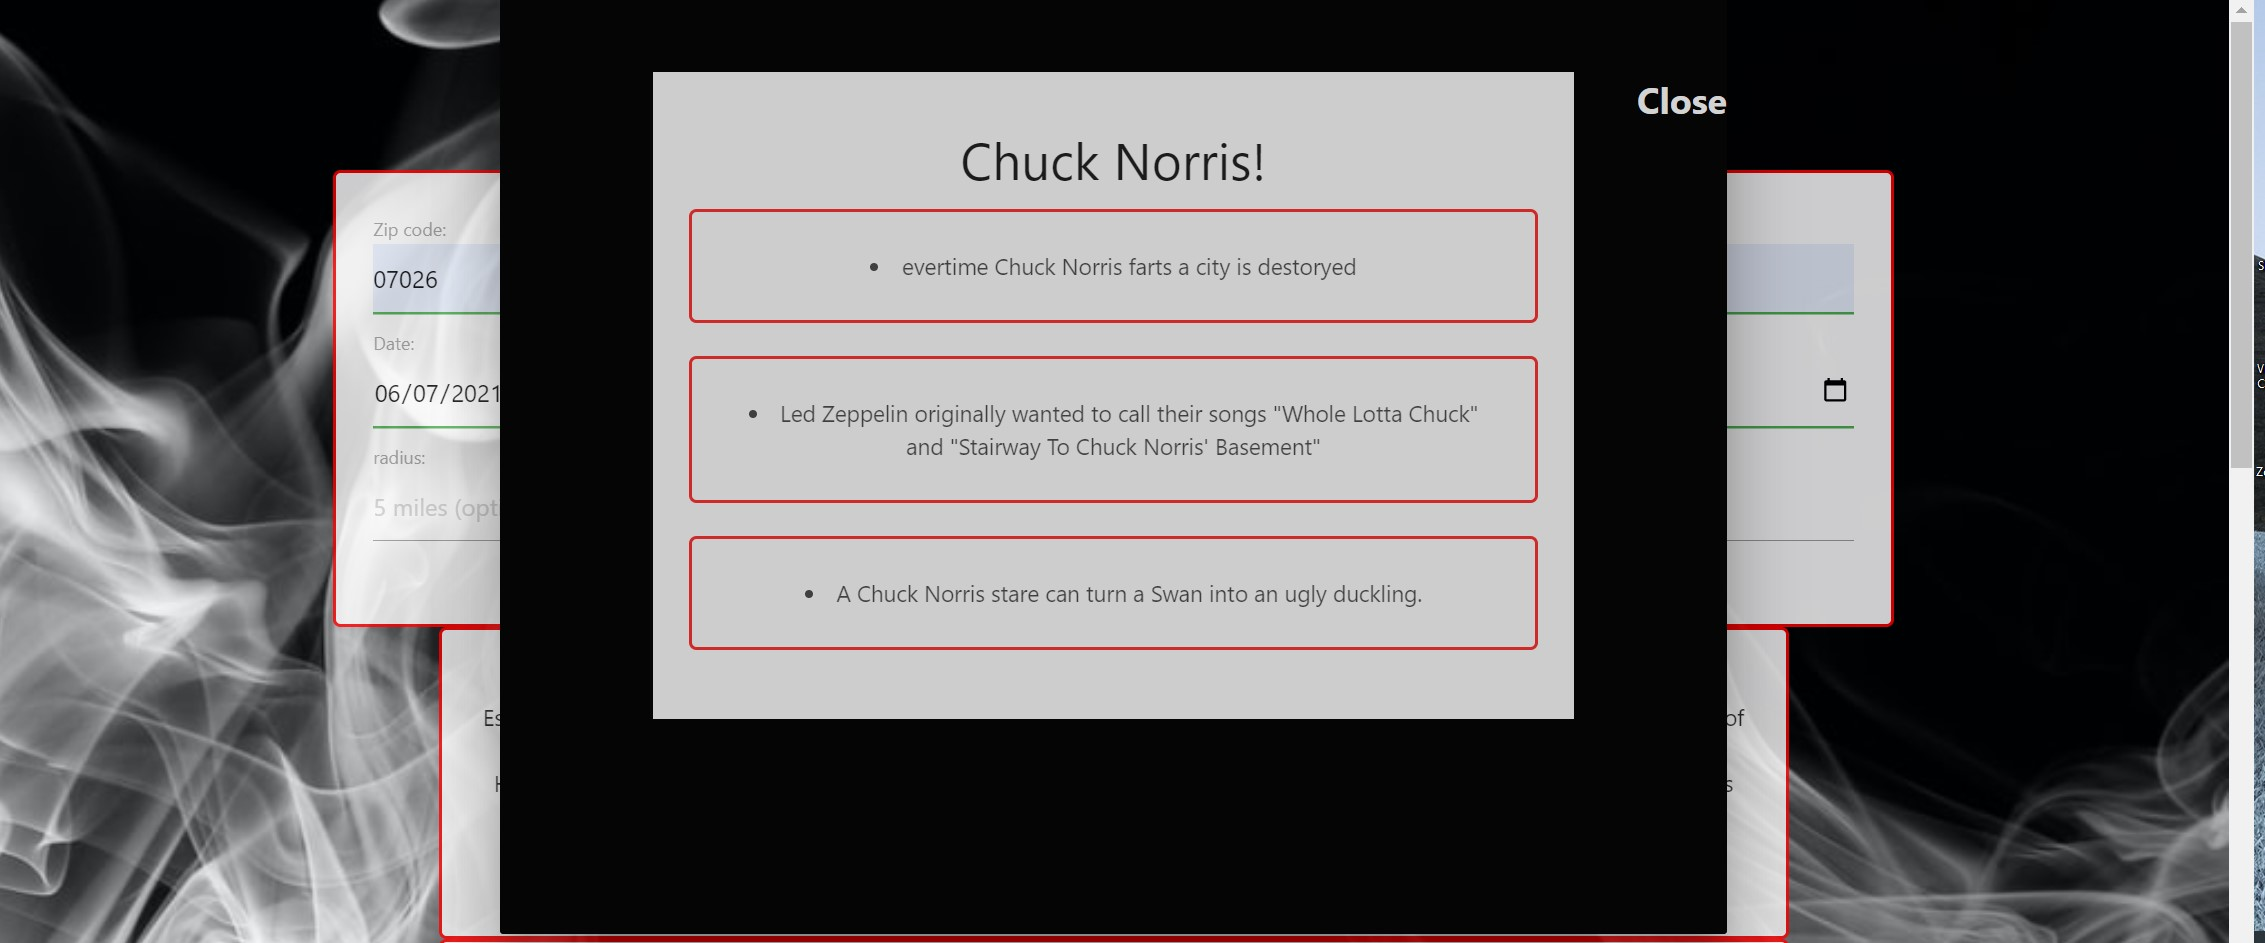
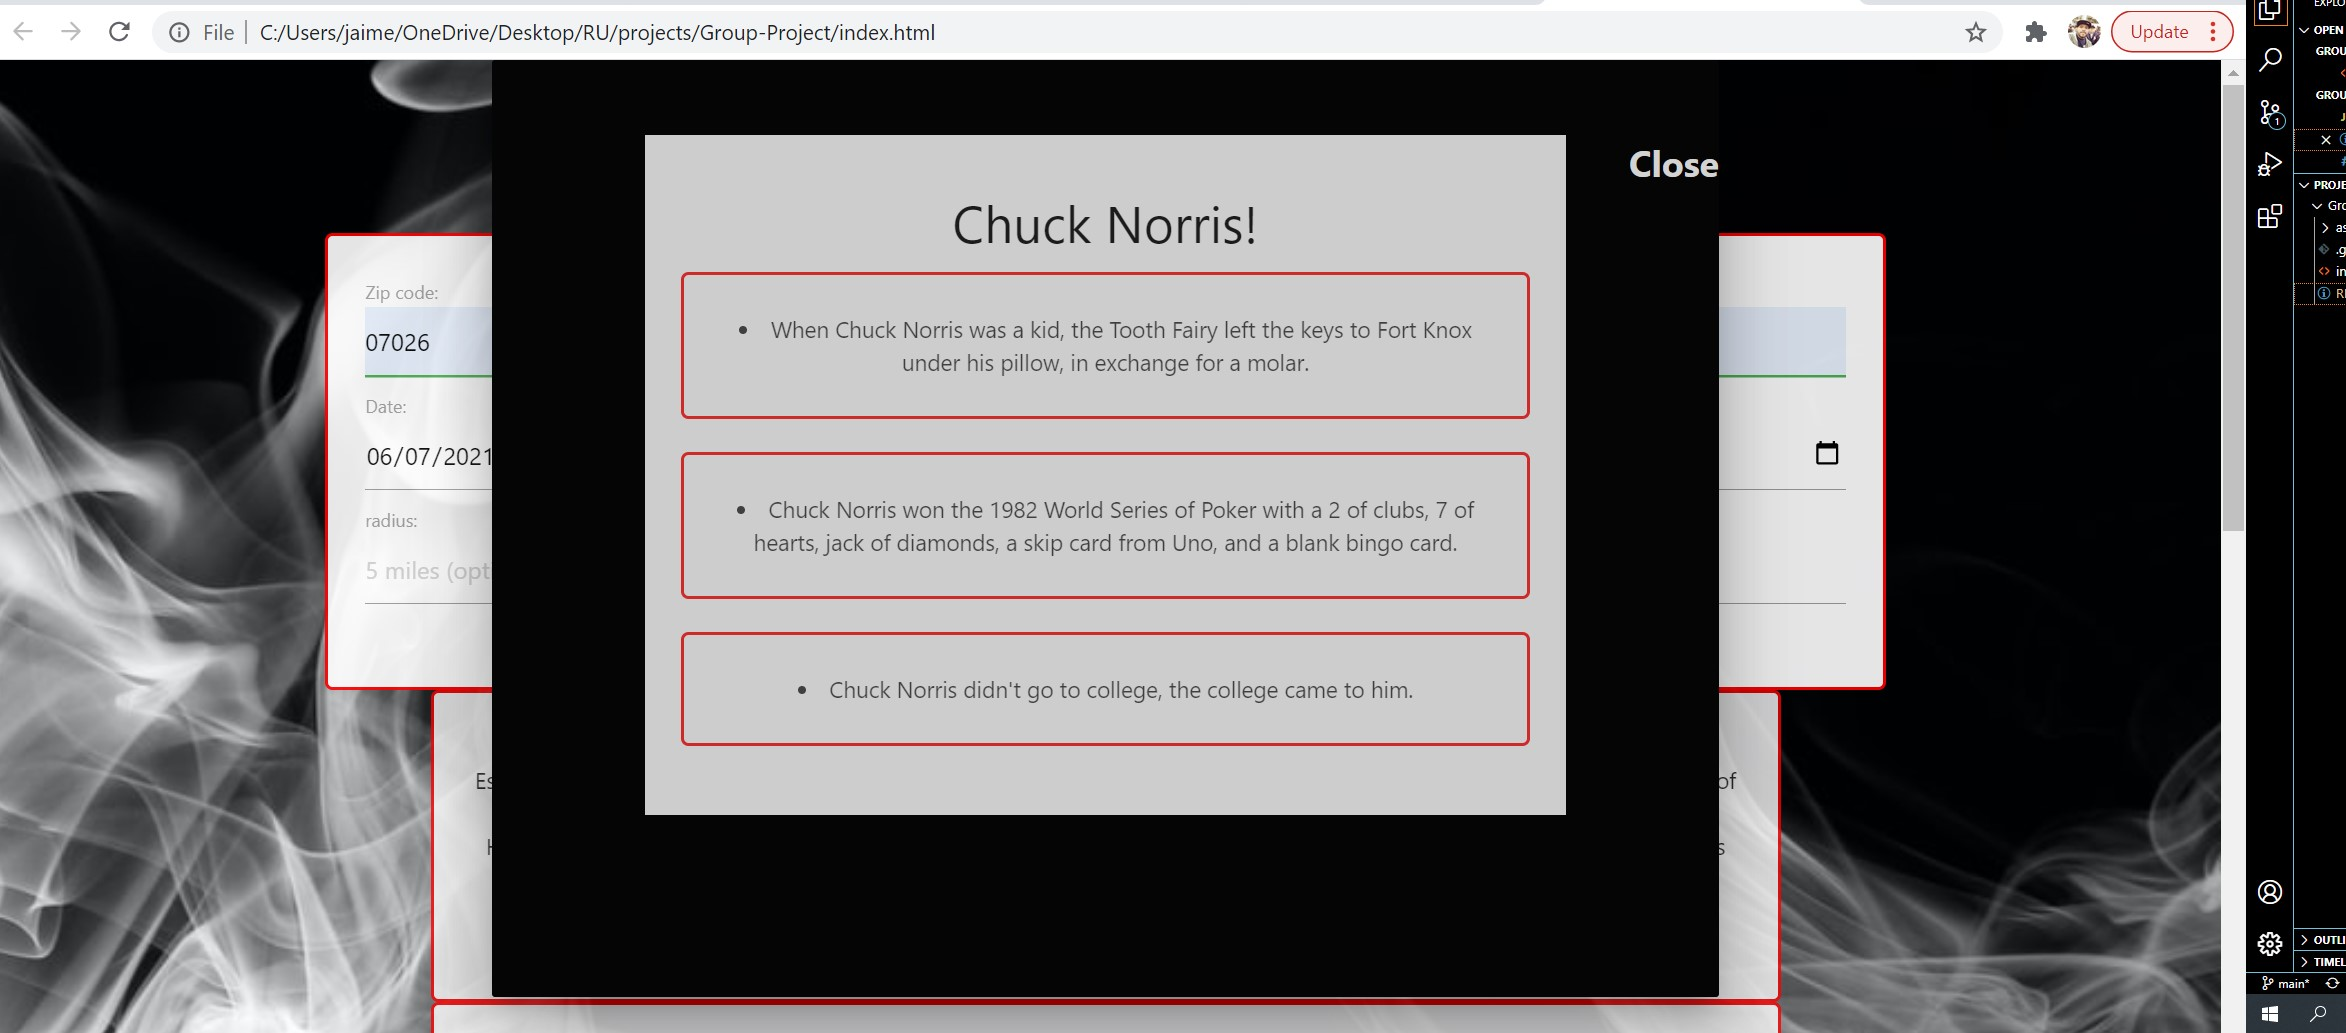
updated readme

diff --git a/README.md b/README.md
@@ -11,7 +11,7 @@
 
 ### This application is Smoke Sesh Dashboard, created using Google Places API, Javascript, Jquery, Materialize, MomentJs, GraceNote API, ChuckNorris.io API and CSS.
 
-This application is to get information on Cannabis and to plan relaxing activities to do.
+This application is to eventually add information on Cannabis and to plan relaxing activities to do.
 
 ![main-page](./assets/images/home.jpg)
 
@@ -42,6 +42,10 @@ https://jaimevilches87.github.io/Group-Project/
 ![button-page](./assets/images/buttons.jpg)
 ![dispensary-page](./assets/images/dispensary.jpg)
 ![restaurant-page](./assets/images/restaurants.jpg)
+
+### If Don't Choke button is clicked a funny Chuck Norris Joke will pop up to bring a laugh during your smoke session.
+
+![chuck-page](./assets/images/chuck.jpg)
 
 <a name="contributing"></a>
 ## 4. Future Adaptations
